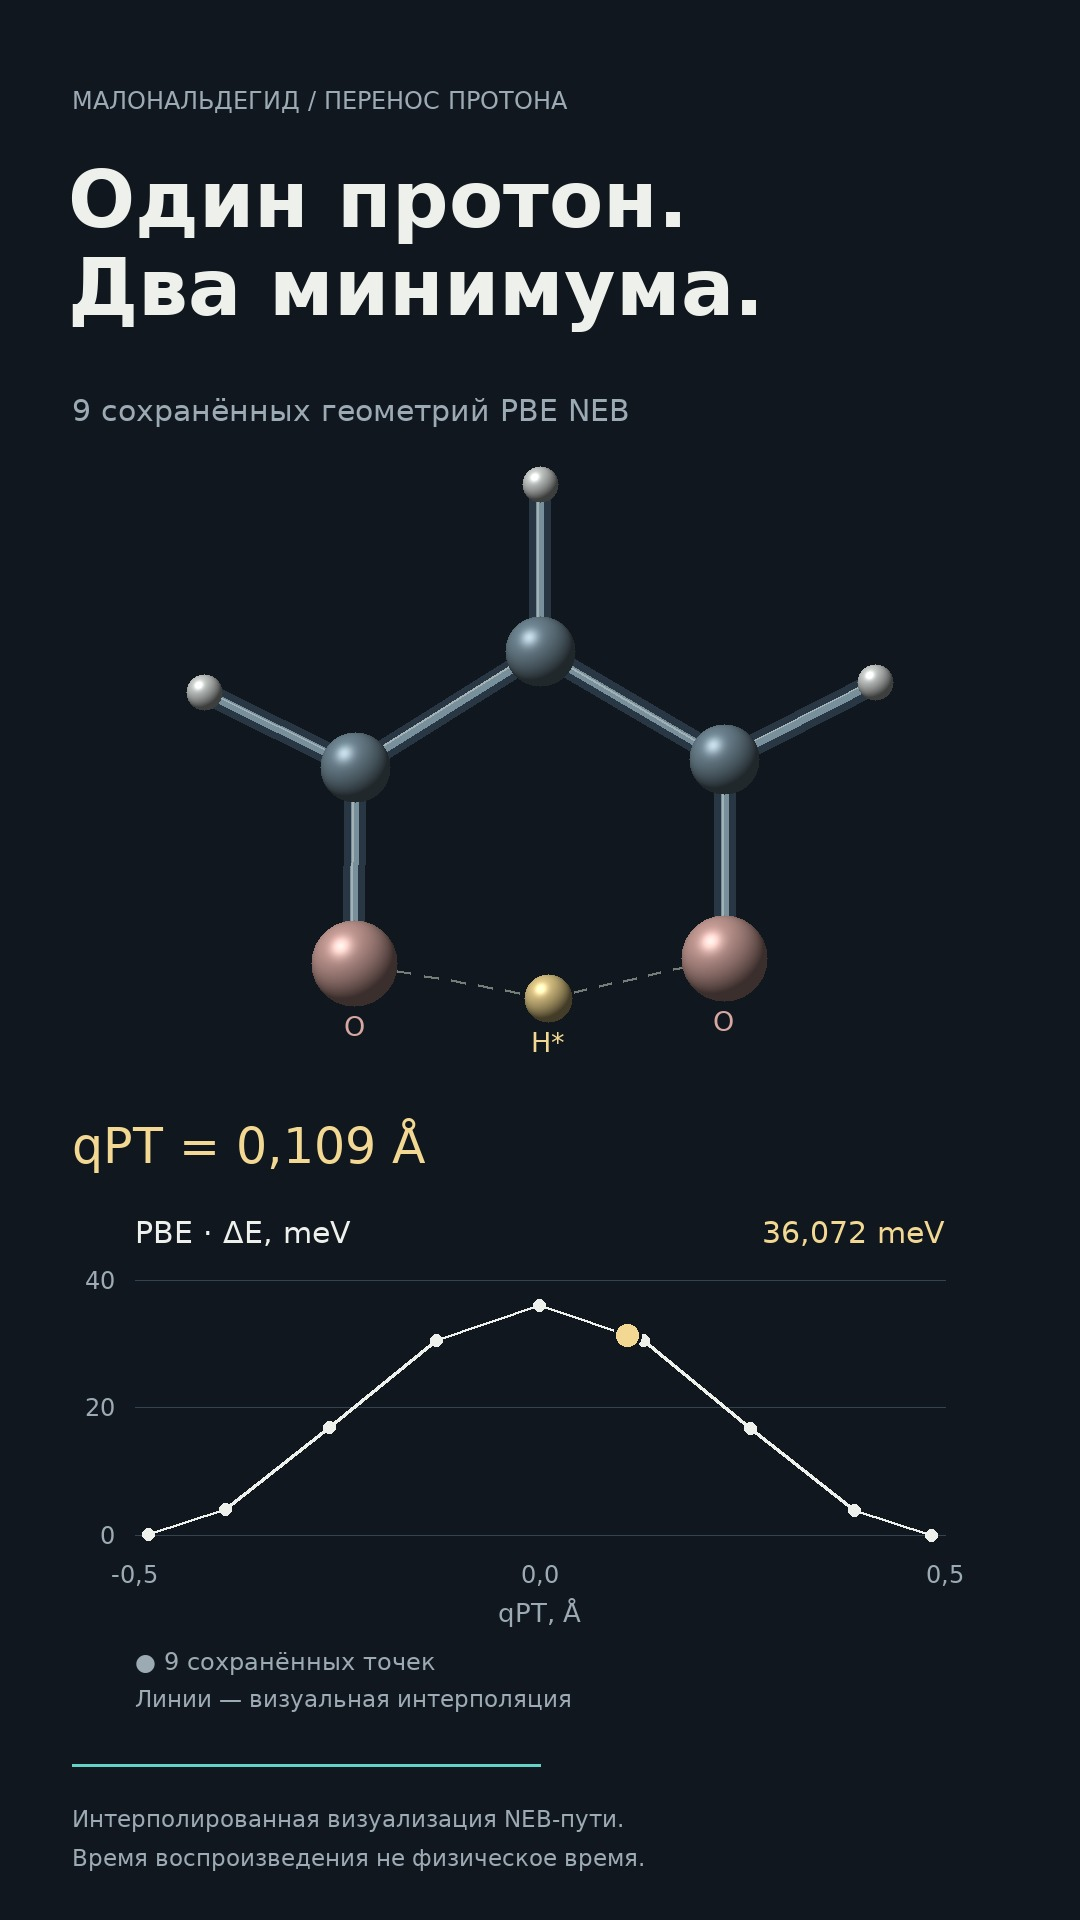
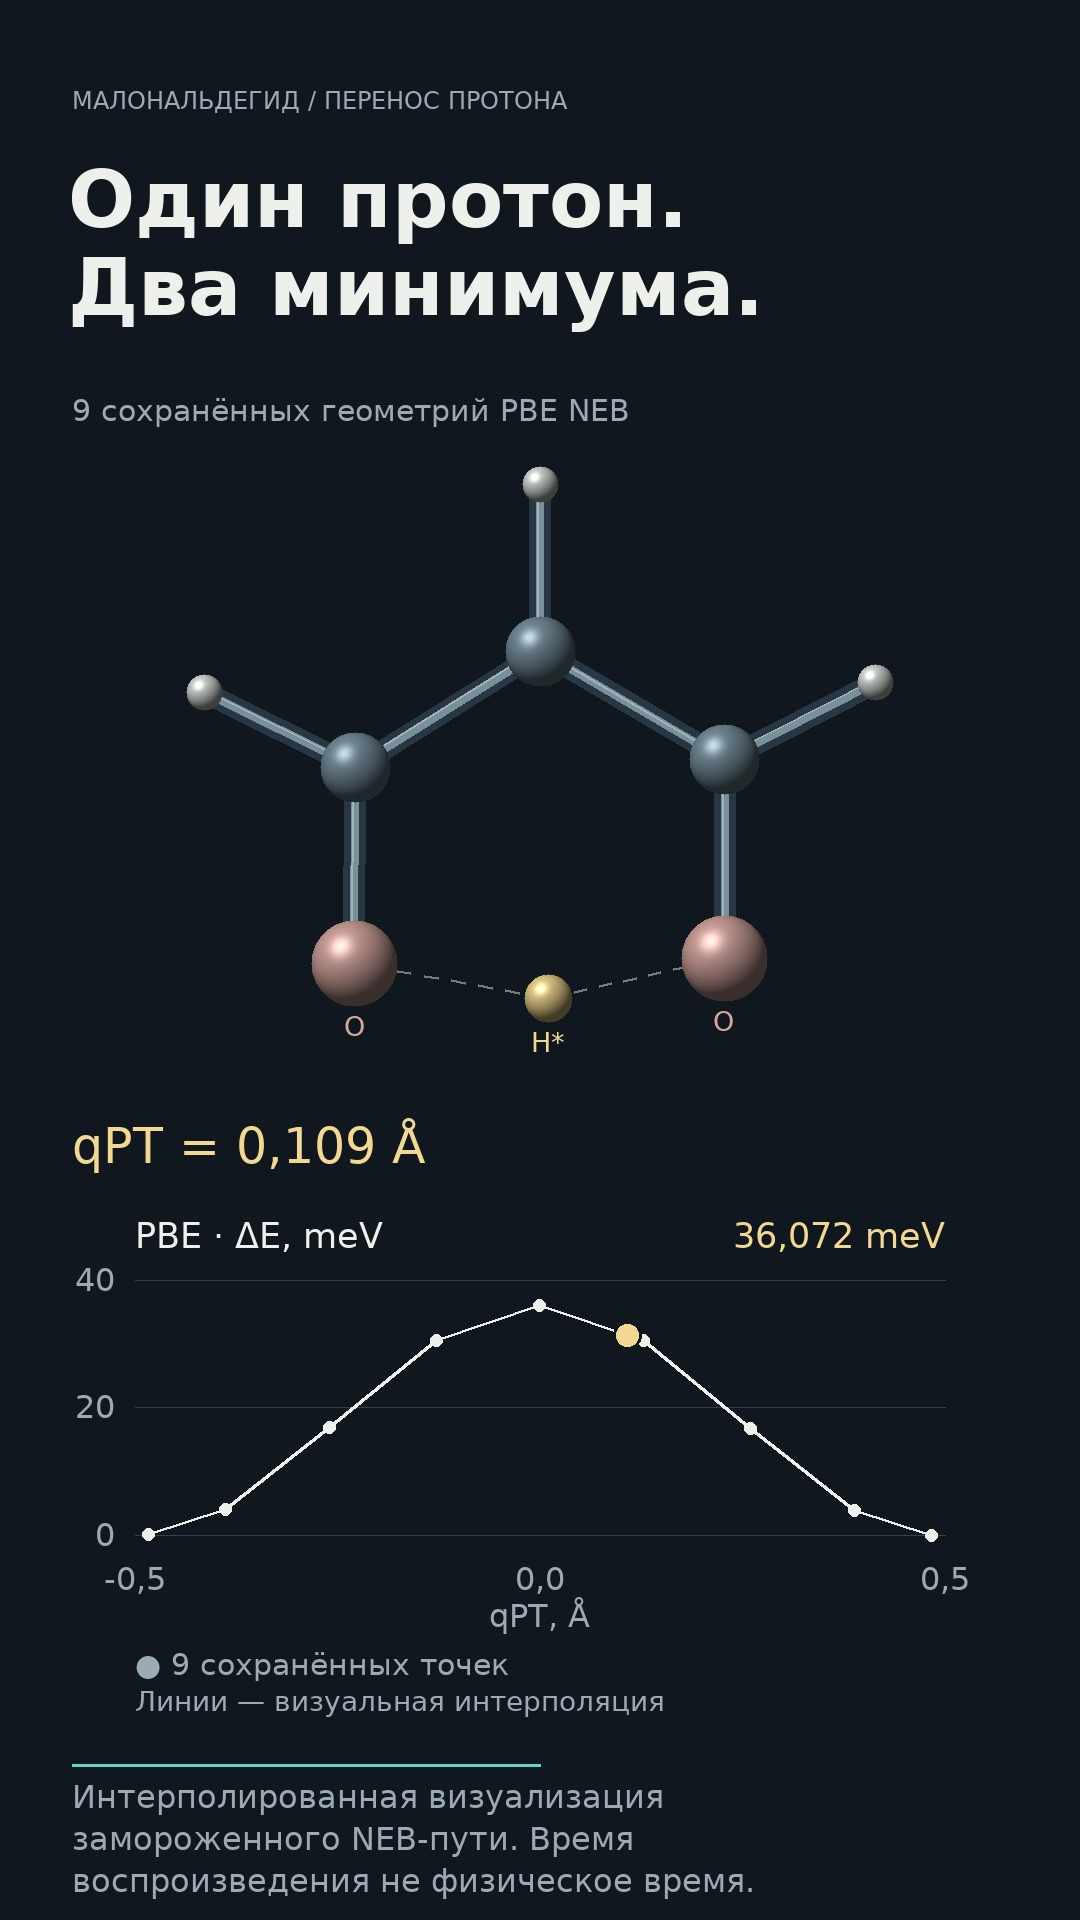
Increase vertical annotation legibility

diff --git a/presentation/visual-story/v001/sources/render_visual_story.py b/presentation/visual-story/v001/sources/render_visual_story.py
@@ -161,20 +161,22 @@ def footer(im,t,duration,s,second=None):
 
 def curve(im,data,p,box=(1110,400,670,355),vertical=False):
     x,y,w,h=box
+    axis_font=32 if vertical else 24
+    title_font=35 if vertical else 30
     for e in (0,20,40):
         yy=y+h-e/40*h;line(im,[(x,yy),(x+w,yy)],LINE,1)
-        text(im,(x-20,yy),str(e),24,MUTED,anchor='rm')
+        text(im,(x-20,yy),str(e),axis_font,MUTED,anchor='rm')
     pts=[(x+(q+.5)*w,y+h-e/40*h) for q,e in zip(data.q,data.energy)]
     line(im,pts,FG,3)
     for xx,yy in pts:circle(im,xx,yy,6,FG)
     _,q,_,en=data.state(p);xx=x+(q+.5)*w;yy=y+h-en/40*h
     circle(im,xx,yy,14,PROTON,BG,3)
-    text(im,(x,y-65),'PBE · ΔE, meV',30,FG)
-    text(im,(x+w,y-65),'36,072 meV',30,PROTON,anchor='ra')
-    for qq in (-.5,0,.5):text(im,(x+(qq+.5)*w,y+h+25),fmt(qq,1),24,MUTED,anchor='ma')
-    text(im,(x+w/2,y+h+62),'qPT, Å',26,MUTED,anchor='ma')
-    text(im,(x,y+h+112),'● 9 сохранённых точек',24,MUTED)
-    text(im,(x,y+h+150),'Линии — визуальная интерполяция',23,MUTED)
+    text(im,(x,y-65),'PBE · ΔE, meV',title_font,FG)
+    text(im,(x+w,y-65),'36,072 meV',title_font,PROTON,anchor='ra')
+    for qq in (-.5,0,.5):text(im,(x+(qq+.5)*w,y+h+25),fmt(qq,1),axis_font,MUTED,anchor='ma')
+    text(im,(x+w/2,y+h+62),'qPT, Å',32 if vertical else 26,MUTED,anchor='ma')
+    text(im,(x,y+h+112),'● 9 сохранённых точек',30 if vertical else 24,MUTED)
+    text(im,(x,y+h+150),'Линии — визуальная интерполяция',28 if vertical else 23,MUTED)
 
 def path_progress(t,duration=34):
     return ease((t-4)/(duration-10))
@@ -382,8 +384,9 @@ def frame_vertical(data,t):
     p=ease((t-3)/14); q,roo,_=molecule(im,data,p,t,540,820,155)
     text(im,(72,1117),f'qPT = {fmt(q)} Å',49,PROTON)
     curve(im,data,p,(135,1280,810,255),True)
-    text(im,(72,1805),'Интерполированная визуализация NEB-пути.',23,MUTED)
-    text(im,(72,1844),'Время воспроизведения не физическое время.',23,MUTED)
+    text(im,(72,1778),'Интерполированная визуализация',32,MUTED)
+    text(im,(72,1820),'замороженного NEB-пути. Время',32,MUTED)
+    text(im,(72,1862),'воспроизведения не физическое время.',32,MUTED)
     line(im,[(72,1765),(72+936*min(t/22,1),1765)],TARGETED,3)
     return im
 

diff --git a/scripts/visual_story/render_visual_story.py b/scripts/visual_story/render_visual_story.py
@@ -161,20 +161,22 @@ def footer(im,t,duration,s,second=None):
 
 def curve(im,data,p,box=(1110,400,670,355),vertical=False):
     x,y,w,h=box
+    axis_font=32 if vertical else 24
+    title_font=35 if vertical else 30
     for e in (0,20,40):
         yy=y+h-e/40*h;line(im,[(x,yy),(x+w,yy)],LINE,1)
-        text(im,(x-20,yy),str(e),24,MUTED,anchor='rm')
+        text(im,(x-20,yy),str(e),axis_font,MUTED,anchor='rm')
     pts=[(x+(q+.5)*w,y+h-e/40*h) for q,e in zip(data.q,data.energy)]
     line(im,pts,FG,3)
     for xx,yy in pts:circle(im,xx,yy,6,FG)
     _,q,_,en=data.state(p);xx=x+(q+.5)*w;yy=y+h-en/40*h
     circle(im,xx,yy,14,PROTON,BG,3)
-    text(im,(x,y-65),'PBE · ΔE, meV',30,FG)
-    text(im,(x+w,y-65),'36,072 meV',30,PROTON,anchor='ra')
-    for qq in (-.5,0,.5):text(im,(x+(qq+.5)*w,y+h+25),fmt(qq,1),24,MUTED,anchor='ma')
-    text(im,(x+w/2,y+h+62),'qPT, Å',26,MUTED,anchor='ma')
-    text(im,(x,y+h+112),'● 9 сохранённых точек',24,MUTED)
-    text(im,(x,y+h+150),'Линии — визуальная интерполяция',23,MUTED)
+    text(im,(x,y-65),'PBE · ΔE, meV',title_font,FG)
+    text(im,(x+w,y-65),'36,072 meV',title_font,PROTON,anchor='ra')
+    for qq in (-.5,0,.5):text(im,(x+(qq+.5)*w,y+h+25),fmt(qq,1),axis_font,MUTED,anchor='ma')
+    text(im,(x+w/2,y+h+62),'qPT, Å',32 if vertical else 26,MUTED,anchor='ma')
+    text(im,(x,y+h+112),'● 9 сохранённых точек',30 if vertical else 24,MUTED)
+    text(im,(x,y+h+150),'Линии — визуальная интерполяция',28 if vertical else 23,MUTED)
 
 def path_progress(t,duration=34):
     return ease((t-4)/(duration-10))
@@ -382,8 +384,9 @@ def frame_vertical(data,t):
     p=ease((t-3)/14); q,roo,_=molecule(im,data,p,t,540,820,155)
     text(im,(72,1117),f'qPT = {fmt(q)} Å',49,PROTON)
     curve(im,data,p,(135,1280,810,255),True)
-    text(im,(72,1805),'Интерполированная визуализация NEB-пути.',23,MUTED)
-    text(im,(72,1844),'Время воспроизведения не физическое время.',23,MUTED)
+    text(im,(72,1778),'Интерполированная визуализация',32,MUTED)
+    text(im,(72,1820),'замороженного NEB-пути. Время',32,MUTED)
+    text(im,(72,1862),'воспроизведения не физическое время.',32,MUTED)
     line(im,[(72,1765),(72+936*min(t/22,1),1765)],TARGETED,3)
     return im
 
